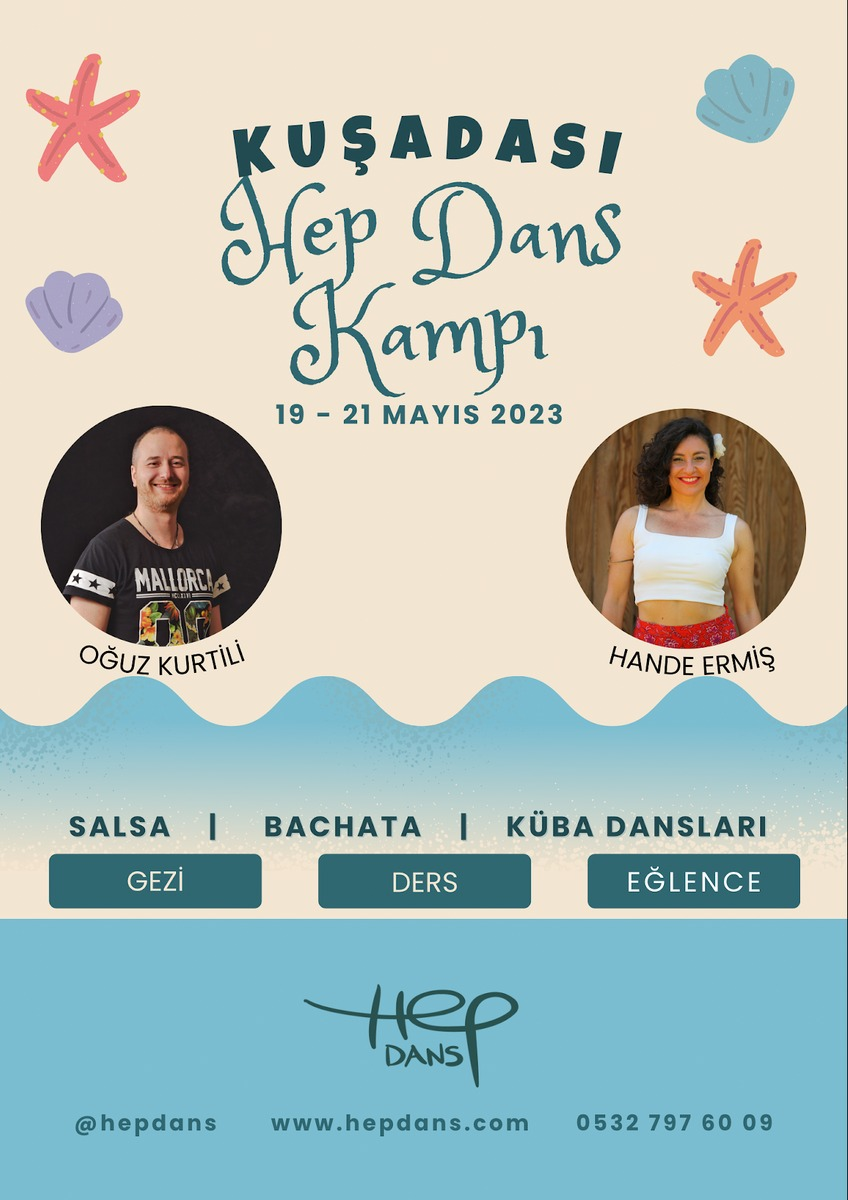
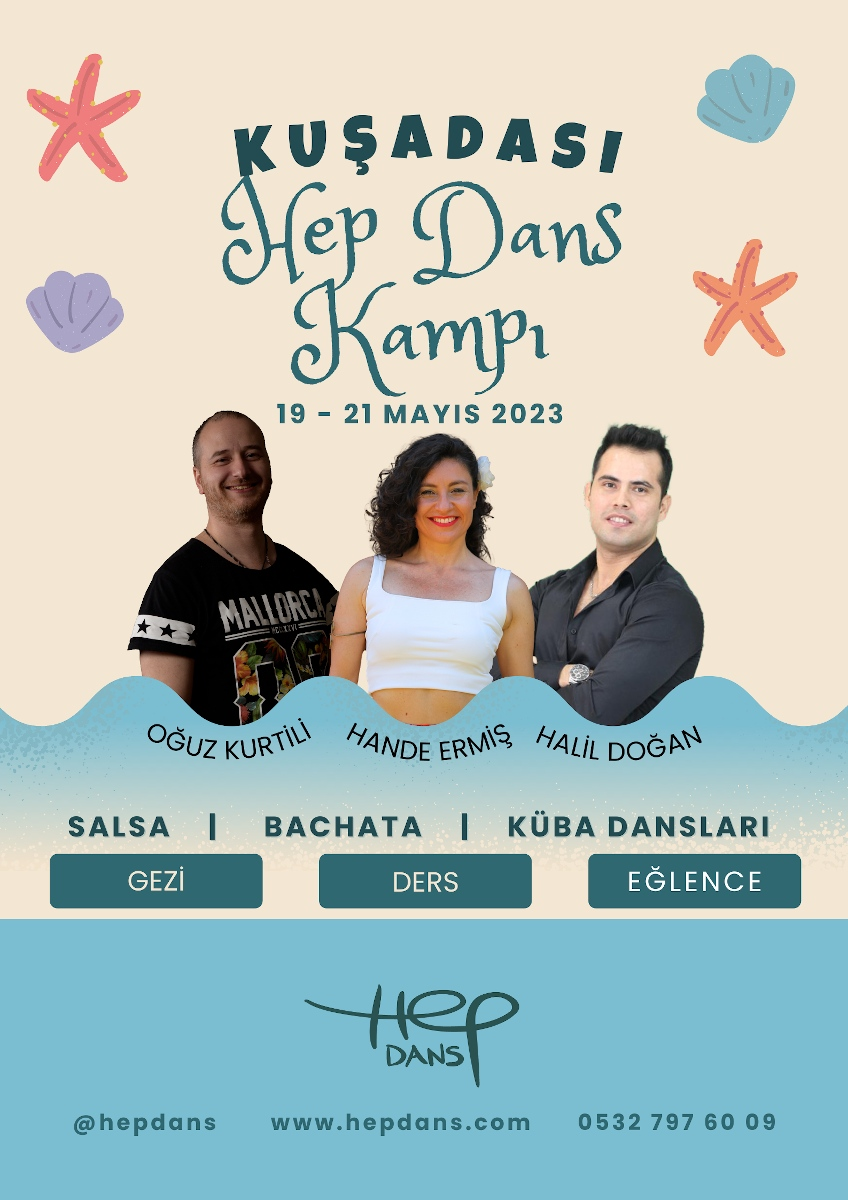
Synchronized build

diff --git a/en/events/current-events/index.html b/en/events/current-events/index.html
@@ -205,7 +205,7 @@
     
     
     <a href="kusadasi-hep-dans-camp/">
-      <img width="200" height="280" decoding="async" loading="lazy" src="../../../etkinlikler/guncel-etkinlikler/kusadasi-hep-dans-kampi-2023/afis-kucuk.jpg" alt="Event poster">
+      <img width="200" height="283" decoding="async" loading="lazy" src="../../../etkinlikler/guncel-etkinlikler/kusadasi-hep-dans-kampi-2023/afis-kucuk.jpg" alt="Event poster">
     </a>
     
   </div>

diff --git a/etkinlikler/guncel-etkinlikler/index.html b/etkinlikler/guncel-etkinlikler/index.html
@@ -205,7 +205,7 @@
     
     
     <a href="kusadasi-hep-dans-kampi-2023/">
-      <img width="200" height="280" decoding="async" loading="lazy" src="kusadasi-hep-dans-kampi-2023/afis-kucuk.jpg" alt="Etkinlik afişi">
+      <img width="200" height="283" decoding="async" loading="lazy" src="kusadasi-hep-dans-kampi-2023/afis-kucuk.jpg" alt="Etkinlik afişi">
     </a>
     
   </div>

diff --git a/etkinlikler/guncel-etkinlikler/kusadasi-hep-dans-kampi-2023/index.html b/etkinlikler/guncel-etkinlikler/kusadasi-hep-dans-kampi-2023/index.html
@@ -197,6 +197,7 @@
 <p>Workshoplar:</p>
 <p>Oğuz Kurtili - Küba dansları</p>
 <p>Hande Ermiş - Salsa, Bachata, Cha cha cha</p>
+<p>Halil Doğan - Küba dansları</p>
   </div>
 </div>
 

diff --git a/en/events/current-events/kusadasi-hep-dans-camp/index.html b/en/events/current-events/kusadasi-hep-dans-camp/index.html
@@ -197,6 +197,7 @@
 <p>Workshops:</p>
 <p>Oğuz Kurtili - Cuban dances</p>
 <p>Hande Ermiş - Salsa, Bachata, Cha cha cha</p>
+<p>Halil Doğan - Cuban dances</p>
   </div>
 </div>
 
